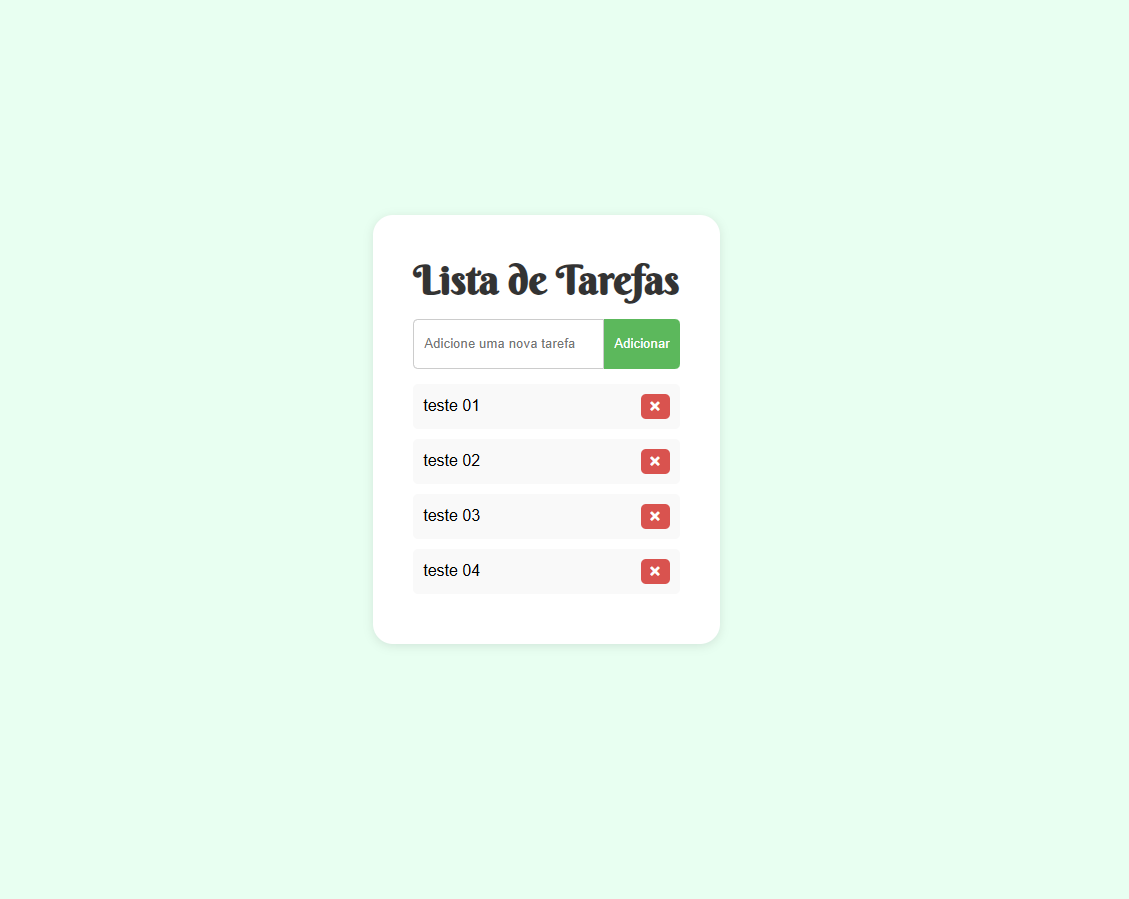
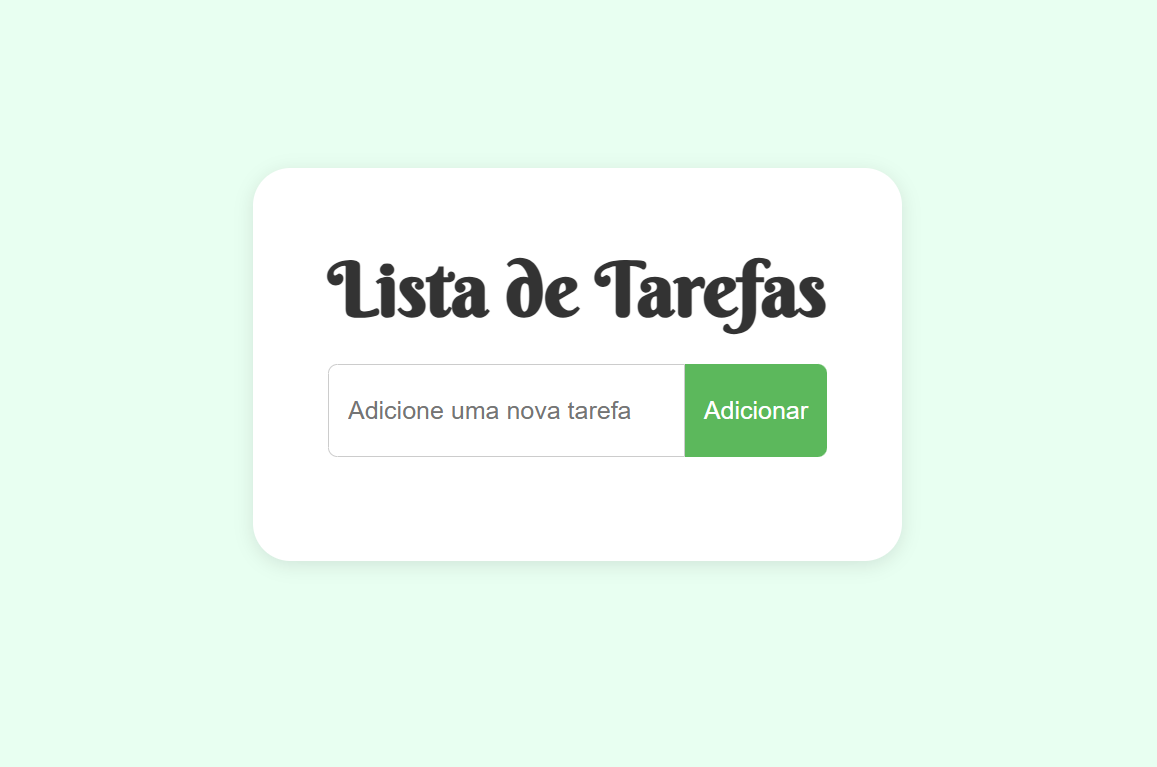
Add new assets and update project data structure with additional projects

diff --git a/src/components/projects/Data.jsx b/src/components/projects/Data.jsx
@@ -1,25 +1,63 @@
-import ClimaImg from '../../assets/clima.png'
-import Clima02Img from '../../assets/clima02.png';
-import DashboardImg from '../../assets/dashboard.jpg';
-import GeradorSenhas01Img from '../../assets/GeradorSenhas.jpg';
-import GeradorSenhas02Img from '../../assets/GeradorSenhas02.jpg';
-import GeradorSenhas03Img from '../../assets/GeradorSenhas03.jpg';
-import GeradorSenhas04Img from '../../assets/GeradorSenhas04.jpg';
-import HardwareImg from '../../assets/hardware.jpg';
-import HardwareImg02 from '../../assets/hardware02.jpg';
-import DashaboardQrCodeImg from '../../assets/DashboardQrCode.jpg';
-import QrCodeImg from '../../assets/Qrcode.png';
-import QrCodeImg02 from '../../assets/Qrcode02.png';
-import TodoListImg from '../../assets/todoList.png';
-import TodoListImg02 from '../../assets/todoList02.png';
-import TodoListImg03 from '../../assets/todoList03.png';
-import SpotifyImg from '../../assets/telaSpotify.png';
+import {
+    ClimaImg,
+    Clima02Img,
+    DashboardImg,
+    GeradorSenhas01Img,
+    GeradorSenhas02Img,
+    GeradorSenhas03Img,
+    GeradorSenhas04Img,
+    HardwareImg,
+    HardwareImg02,
+    DashaboardQrCodeImg,
+    QrCodeImg,
+    QrCodeImg02,
+    TodoListImg,
+    TodoListImg02,
+    TodoListImg03,
+    SpotifyImg,
+    GoobarLogo,
+    SpotifyLogo,
+    GoobarTela01,
+    GoobarTela02,
+    GoobarTela03,
+    GoobarTela04,
+    GoobarTela05,
+    GoobarTela06,
+    GoobarTela07,
+    GoobarTela08,
+    GoobarTela09,
+    GoobarTela10,
+    GoobarTela11,
+    NotaFiscalLogo,
+    NotaFiscal01,
+    NotaFiscal02,
+    NotaFiscal03,
+    NotaFiscal04,
+    NotaFiscal05,
+    NotaFiscal06,
+    NotaFiscal07,
+    NotaFiscal08,
+    NotaFiscal09,
+    NotaFiscal10,
+    DengueAlerta01,
+    DengueAlerta02,
+    DengueAlerta03,
+    DengueAlerta04,
+    DengueAlerta05,
+    DengueAlerta06,
+    DengueAlerta07,
+    DengueAlerta08,
+    DengueAlertaLogo,
+    CuraLogo,
+    GeradorSenhasLogo
+} from '../../assets';
+
 
 export const projectsData = [
     {
       id: 1,
-      thumbnail: DashboardImg,
-      images: [DashboardImg, DashaboardQrCodeImg, HardwareImg, HardwareImg02],
+      thumbnail: CuraLogo,
+      images: [CuraLogo, DashboardImg, DashaboardQrCodeImg, HardwareImg, HardwareImg02],
       title: "Deck Hospitalar - Gestão e Monitoramento de Pacientes",
       category: "Web",
       description: "Sistema da Web para gerenciamento de pacientes hospitalares e monitoramento de ambiente em tempo real através de sensores de IoT, com funcionalidade completa do CRUD, front-end em HTML/CSS/JS e back-end em Java com bota de primavera.",
@@ -38,7 +76,7 @@ export const projectsData = [
     },
     {
         id: 3,
-        thumbnail: GeradorSenhas01Img,
+        thumbnail: GeradorSenhasLogo,
         images: [GeradorSenhas01Img, GeradorSenhas02Img, GeradorSenhas03Img, GeradorSenhas04Img],
         title: "Gerador de Senhas",
         category: "Mobile",
@@ -68,7 +106,7 @@ export const projectsData = [
     },
     {
         id: 6,
-        thumbnail: SpotifyImg,
+        thumbnail: SpotifyLogo,
         images: [SpotifyImg],
         title: "Spotify Clone",
         category: "Web",
@@ -76,6 +114,37 @@ export const projectsData = [
         demo_link: "https://viniipp.github.io/Spotify/",
         github_link: "https://github.com/ViniiPP/Spotify"
     },
+    {
+        id: 7,
+        thumbnail: NotaFiscalLogo,
+        images: [NotaFiscal01, NotaFiscal02, NotaFiscal03, NotaFiscal04, NotaFiscal10, NotaFiscal05, NotaFiscal06, NotaFiscal07, NotaFiscal08, NotaFiscal09],
+        title: "New - Nota Fiscal Gaúcha",
+        category: "Design",
+        description: "Protótipo de interface para o sistema de Nota Fiscal Gaúcha, desenvolvido no Figma. O projeto inclui telas de login, dashboard, emissão de notas e relatórios, com foco na usabilidade e estética.",
+        demo_link: "https://www.figma.com/proto/TRsoovMyXV9ClchAMPinSV/Nota-Fiscal-Ga%C3%BAcha---PROTOTIPA%C3%87%C3%83O--Vini-?page-id=0%3A1&node-id=151-520&viewport=844%2C671%2C0.26&t=JYMTDg6BoVdAuTLU-1&scaling=scale-down&content-scaling=fixed&starting-point-node-id=151%3A520",
+        github_link: "https://www.figma.com/design/TRsoovMyXV9ClchAMPinSV/Nota-Fiscal-Ga%C3%BAcha---PROTOTIPA%C3%87%C3%83O--Vini-?node-id=0-1&t=XQHiWkVqthd4FWtx-1"
+    },
+    {
+        id: 8,
+        thumbnail: GoobarLogo,
+        images: [GoobarLogo, GoobarTela03, GoobarTela04, GoobarTela01, GoobarTela11, GoobarTela02, GoobarTela05, GoobarTela06 ,GoobarTela07, GoobarTela08, GoobarTela09, GoobarTela10],
+        title: "Goobar - App de geolocalização de bares e restaurantes",
+        category: "Design",
+        description: "Design de interface para o aplicativo Goobar, que permite aos usuários encontrar bares e restaurantes próximos. Inclui telas de login, registro, mapa e perfil do usuário. Focado na usabilidade e estética, utilizando ferramentas de design como Figma.",
+        demo_link: "https://www.figma.com/design/qyekyrlABGyrhMYkJa0pGU/Wireframe?node-id=0-1&t=lCZCup15pR16l94D-1",
+        github_link: "https://www.figma.com/design/qyekyrlABGyrhMYkJa0pGU/Wireframe?node-id=0-1&t=lCZCup15pR16l94D-1"
+    },
+    {
+        id: 9,
+        thumbnail: DengueAlertaLogo,
+        images: [DengueAlertaLogo, DengueAlerta01, DengueAlerta02, DengueAlerta03, DengueAlerta04, DengueAlerta05, DengueAlerta06, DengueAlerta07, DengueAlerta08],
+        title: "Dengue Alerta - Aplicativo de Monitoramento de Dengue",
+        category: "Design",
+        description: "Protótipo de aplicativo móvel para monitoramento de casos de dengue, desenvolvido no Figma. O projeto inclui telas de cadastro, dashboard, mapa de casos e notificações, com foco na usabilidade e estética.",
+        demo_link: "https://www.figma.com/proto/gyYDoykifIYwDFXjRvEUbr/AEDES-TRACKER?page-id=0%3A1&node-id=200-1020&p=f&viewport=896%2C519%2C0.27&t=9MZLD3kdbw5NZig6-1&scaling=scale-down&content-scaling=fixed&starting-point-node-id=244%3A1908",
+        github_link: "https://www.figma.com/design/gyYDoykifIYwDFXjRvEUbr/AEDES-TRACKER?node-id=0-1&t=MZFdZWRGxwqbB0DU-1"
+    },
+    
   ];
 
   export const projectsNav = [

diff --git a/src/assets/index.js b/src/assets/index.js
@@ -1,0 +1,106 @@
+import ClimaImg from './clima.png';
+import Clima02Img from './clima02.png';
+import DashboardImg from './dashboard.jpg';
+import GeradorSenhas01Img from './GeradorSenhas.jpg';
+import GeradorSenhas02Img from './GeradorSenhas02.jpg';
+import GeradorSenhas03Img from './GeradorSenhas03.jpg';
+import GeradorSenhas04Img from './GeradorSenhas04.jpg';
+import HardwareImg from './hardware.jpg';
+import HardwareImg02 from './hardware02.jpg';
+import DashaboardQrCodeImg from './DashboardQrCode.jpg';
+import QrCodeImg from './Qrcode.png';
+import QrCodeImg02 from './Qrcode02.png';
+import TodoListImg from './todoList.png';
+import TodoListImg02 from './todoList02.png';
+import TodoListImg03 from './todoList03.png';
+import SpotifyImg from './telaSpotify.png';
+import GoobarLogo from './GoobarLogo.png';
+import GoobarTela01 from './goobarTela01.png';
+import GoobarTela02 from './goobarTela02.png';
+import GoobarTela03 from './goobarTela03.png';
+import GoobarTela04 from './goobarTela04.png';
+import GoobarTela05 from './goobarTela05.png';
+import GoobarTela06 from './goobarTela06.png';
+import GoobarTela07 from './goobarTela07.png';
+import GoobarTela08 from './goobarTela08.png';
+import GoobarTela09 from './goobarTela09.png';
+import GoobarTela10 from './goobarTela10.png';
+import GoobarTela11 from './goobarTela11.png';
+import NotaFiscalLogo from './notaFiscalLogo.png';
+import NotaFiscal01 from './notaFiscal01.png';
+import NotaFiscal02 from './notaFiscal02.png';
+import NotaFiscal03 from './notaFiscal03.png';
+import NotaFiscal04 from './notaFiscal04.png';
+import NotaFiscal05 from './notaFiscal05.png';
+import NotaFiscal06 from './notaFiscal06.png';
+import NotaFiscal07 from './notaFiscal07.png';
+import NotaFiscal08 from './notaFiscal08.png';
+import NotaFiscal09 from './notaFiscal09.png';
+import DengueAlerta01 from './DengueAlerta01.png';
+import DengueAlerta02 from './DengueAlerta02.png';
+import DengueAlerta03 from './DengueAlerta03.png';
+import DengueAlerta04 from './DengueAlerta04.png';
+import DengueAlerta05 from './DengueAlerta05.png';
+import DengueAlerta06 from './DengueAlerta06.png';
+import DengueAlerta07 from './DengueAlerta07.png';
+import DengueAlerta08 from './DengueAlerta08.png';
+import DengueAlertaLogo from './DengueAlertaLogo.png';
+import CuraLogo from './CuraLogo.png';
+import GeradorSenhasLogo from './GeradorSenhasLogo.png';
+import SpotifyLogo from './SpotifyLogo.jpg';
+import NotaFiscal10 from './notaFiscal10.png';
+
+// Exporta todas as imagens em um único objeto
+export {
+    ClimaImg,
+    SpotifyLogo,
+    GeradorSenhasLogo,
+    CuraLogo,
+    Clima02Img,
+    DashboardImg,
+    GeradorSenhas01Img,
+    GeradorSenhas02Img,
+    GeradorSenhas03Img,
+    GeradorSenhas04Img,
+    HardwareImg,
+    HardwareImg02,
+    DashaboardQrCodeImg,
+    QrCodeImg,
+    QrCodeImg02,
+    TodoListImg,
+    TodoListImg02,
+    TodoListImg03,
+    SpotifyImg,
+    GoobarLogo,
+    GoobarTela01,
+    GoobarTela02,
+    GoobarTela03,
+    GoobarTela04,
+    GoobarTela05,
+    GoobarTela06,
+    GoobarTela07,
+    GoobarTela08,
+    GoobarTela09,
+    GoobarTela10,
+    GoobarTela11,
+    NotaFiscalLogo,
+    NotaFiscal01,
+    NotaFiscal02,
+    NotaFiscal03,
+    NotaFiscal04,
+    NotaFiscal05,
+    NotaFiscal06,
+    NotaFiscal07,
+    NotaFiscal08,
+    NotaFiscal09,
+    NotaFiscal10,
+    DengueAlerta01,
+    DengueAlerta02,
+    DengueAlerta03,
+    DengueAlerta04,
+    DengueAlerta05,
+    DengueAlerta06,
+    DengueAlerta07,
+    DengueAlerta08,
+    DengueAlertaLogo
+};

diff --git a/src/components/projects/WorkItems.jsx b/src/components/projects/WorkItems.jsx
@@ -1,27 +1,30 @@
-import React, { useState, useEffect, useRef } from 'react';
+import React, { useState, useEffect, useRef, useCallback } from 'react';
 
 export const WorkItems = ({item}) => {
     const [toggleState, setToggleState] = useState(false);
     const [currentImageIndex, setCurrentImageIndex] = useState(0);
     const modalRef = useRef(null);
 
-    const toggleModal = () => {
-        setToggleState(!toggleState);
+    // Envolvemos a função com useCallback
+    const toggleModal = useCallback(() => {
+        // Usamos a forma funcional do setState para não depender de 'toggleState'
+        setToggleState(prev => !prev); 
         if (!toggleState) {
             setCurrentImageIndex(0);
         }
-    }
+    }, [toggleState]); // A dependência aqui é intencional para a lógica de resetar o index
 
-    const nextImage = (e) => {
+    const nextImage = useCallback((e) => {
         e.stopPropagation(); 
         setCurrentImageIndex((prevIndex) => (prevIndex + 1) % item.images.length);
-    }
+    }, [item.images.length]);
 
-    const prevImage = (e) => {
+    const prevImage = useCallback((e) => {
         e.stopPropagation();
         setCurrentImageIndex((prevIndex) => (prevIndex - 1 + item.images.length) % item.images.length);
-    }
+    }, [item.images.length]);
 
+    // O useEffect agora usa a versão memorizada de toggleModal
     useEffect(() => {
         const handleOutsideClick = (event) => {
             if (!toggleState || (modalRef.current && modalRef.current.contains(event.target))) {
@@ -52,10 +55,9 @@ export const WorkItems = ({item}) => {
             <div className="projects__modal-content" ref={modalRef}>
                 <i onClick={toggleModal} className="uil uil-times projects__modal-close"></i>
 
-                {/* --- MUDANÇA PRINCIPAL AQUI --- */}
                 <div className="projects__modal-gallery">
                     <div 
-                        className="projects__modal-gallery-strip" 
+                        className="projects__modal-gallery-strip has-transition"
                         style={{ transform: `translateX(-${currentImageIndex * 100}%)` }}
                     >
                         {item.images.map((imgSrc, index) => (
@@ -75,7 +77,6 @@ export const WorkItems = ({item}) => {
                         </>
                     )}
                 </div>
-                {/* --- FIM DA MUDANÇA --- */}
 
                 <h3 className="projects__modal-title">{item.title}</h3>
                 <p className="projects__modal-description">{item.description}</p>

diff --git a/src/components/projects/Projects.jsx b/src/components/projects/Projects.jsx
@@ -1,4 +1,4 @@
-import React, { useEffect, useState, useRef  } from 'react';
+import React, { useEffect, useState } from 'react';
 import { projectsData, projectsNav } from './Data';
 import { WorkItems } from './WorkItems';
 import "./projects.css";
@@ -27,7 +27,7 @@ export const Projects = () => {
   return (
     <section className="projects section" id="projects">
         <h2 className="section__title">Projetos</h2>
-        <span className="section__subtitle">Meus trabalhos recentes</span>
+        <span className="section__subtitle">Meus projetos</span>
 
         <div className="projects__filters">
             {projectsNav.map((item, index) => {
